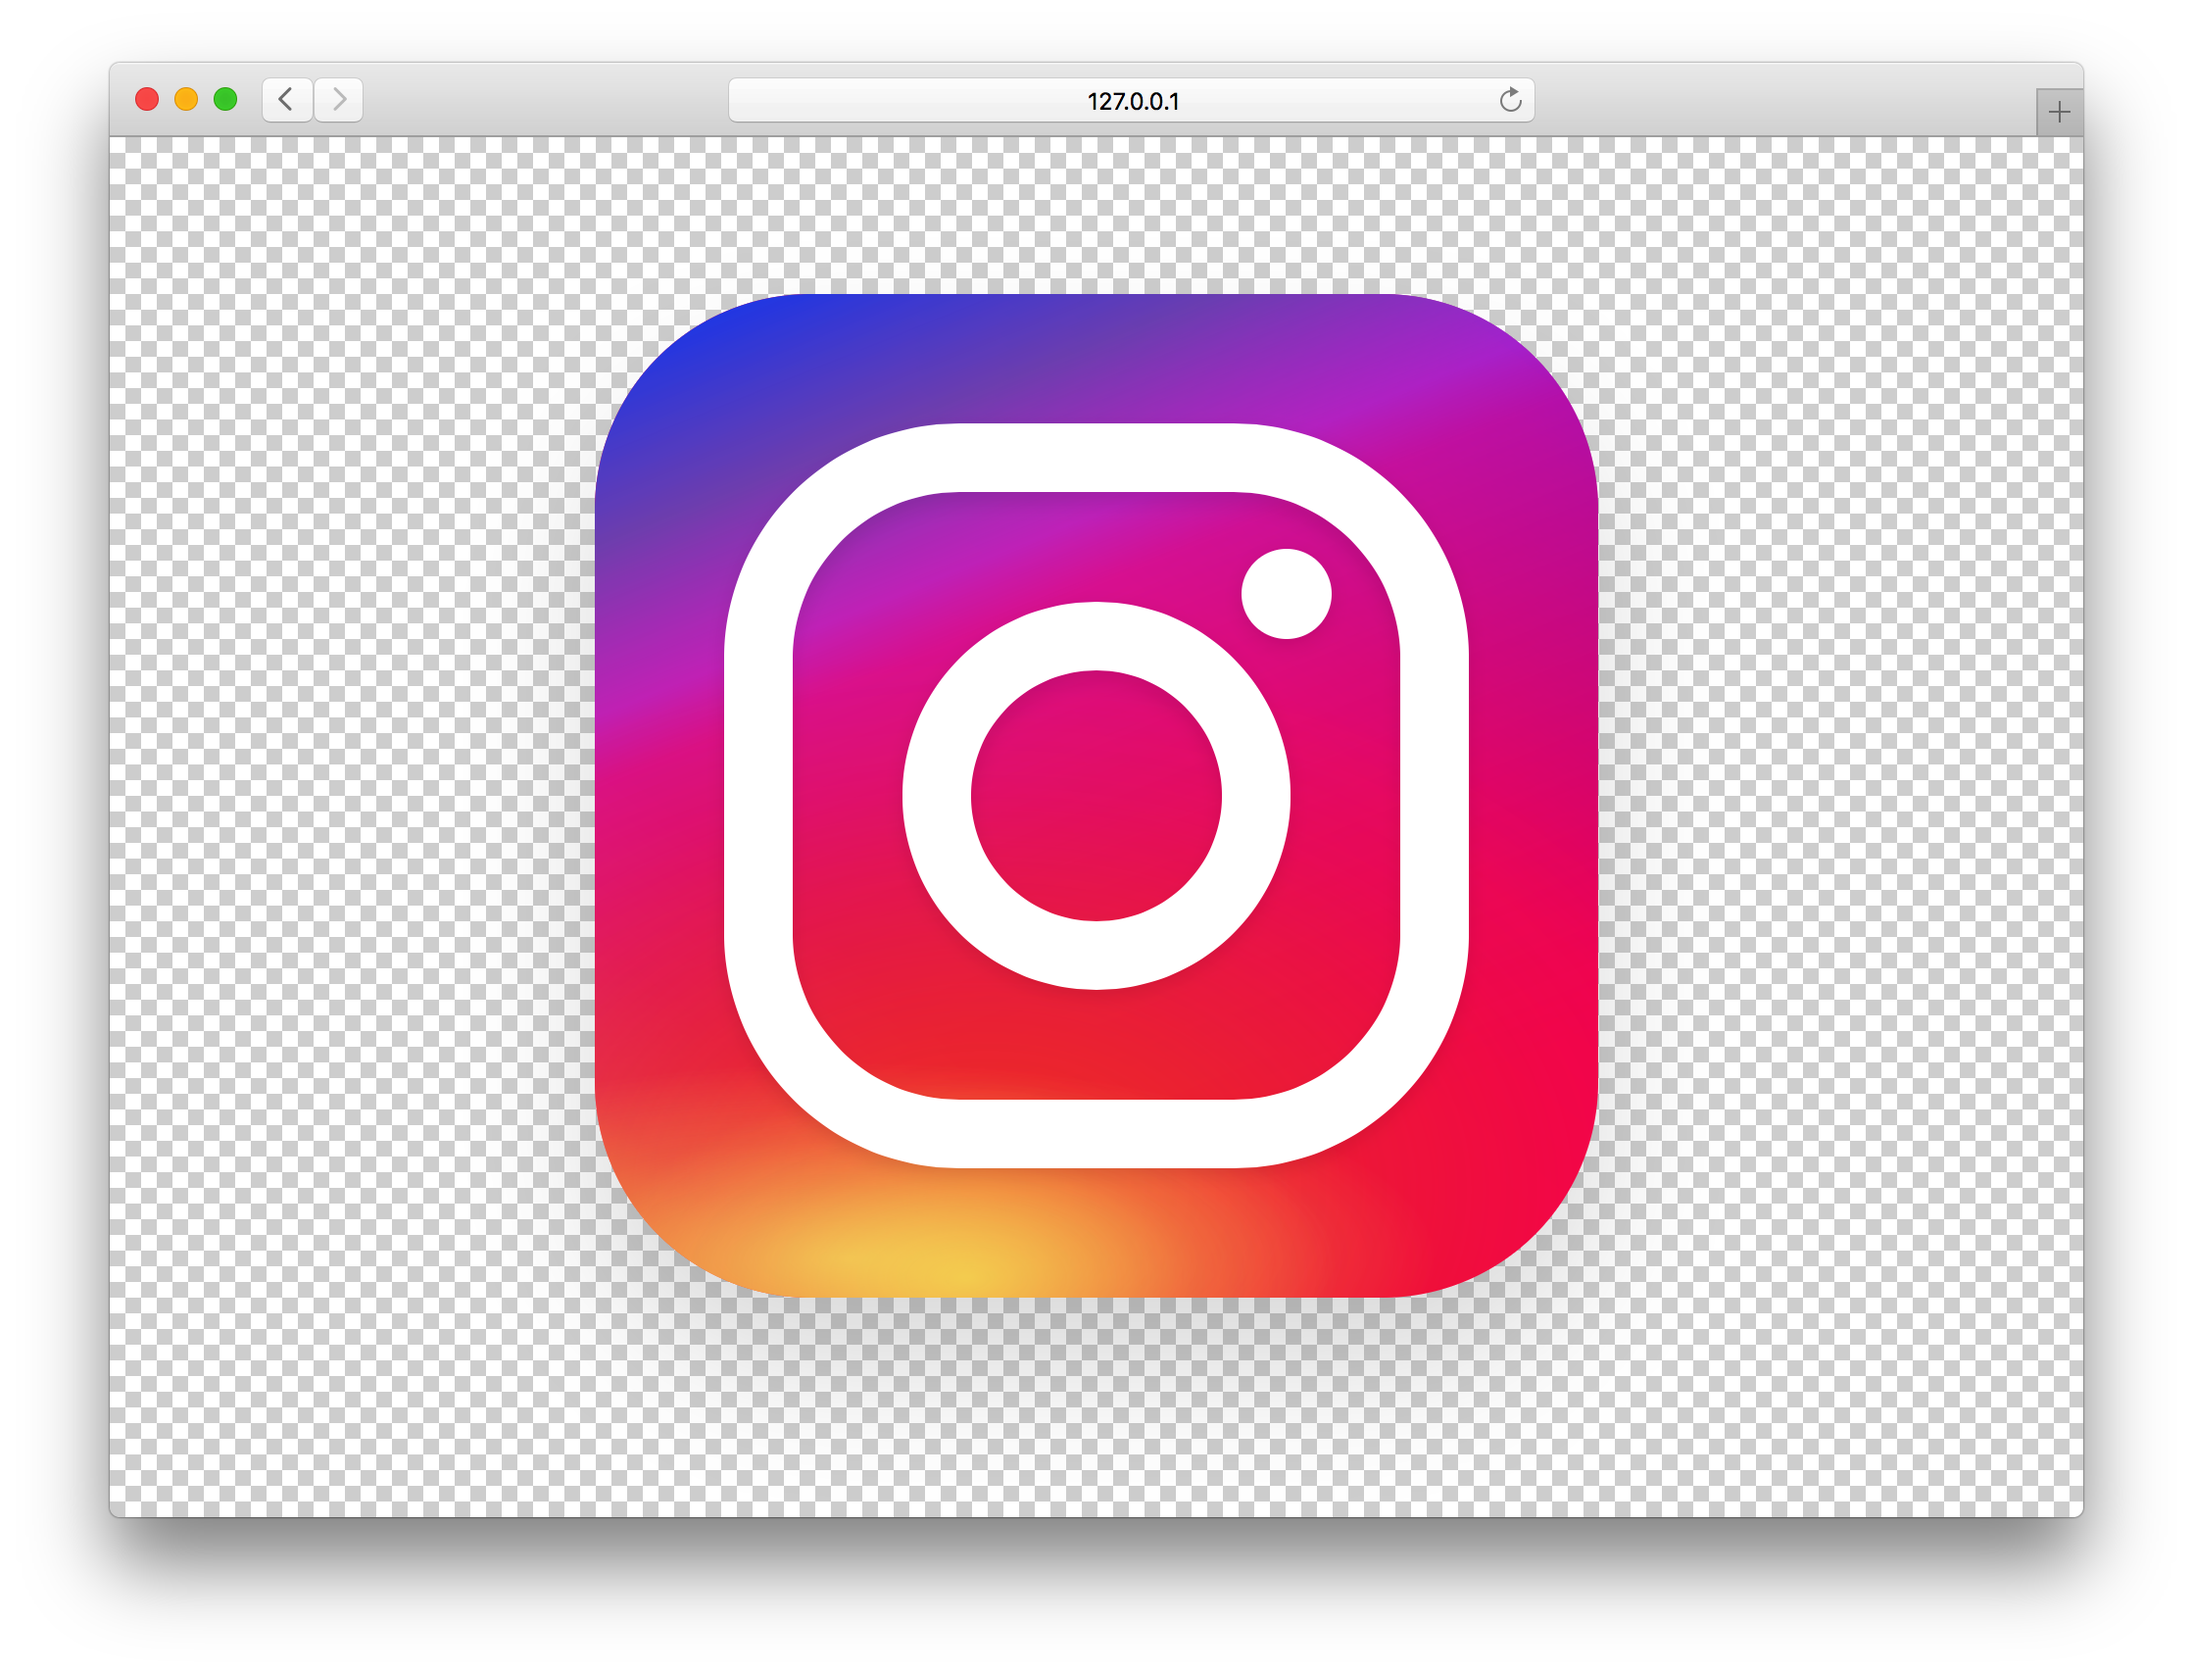
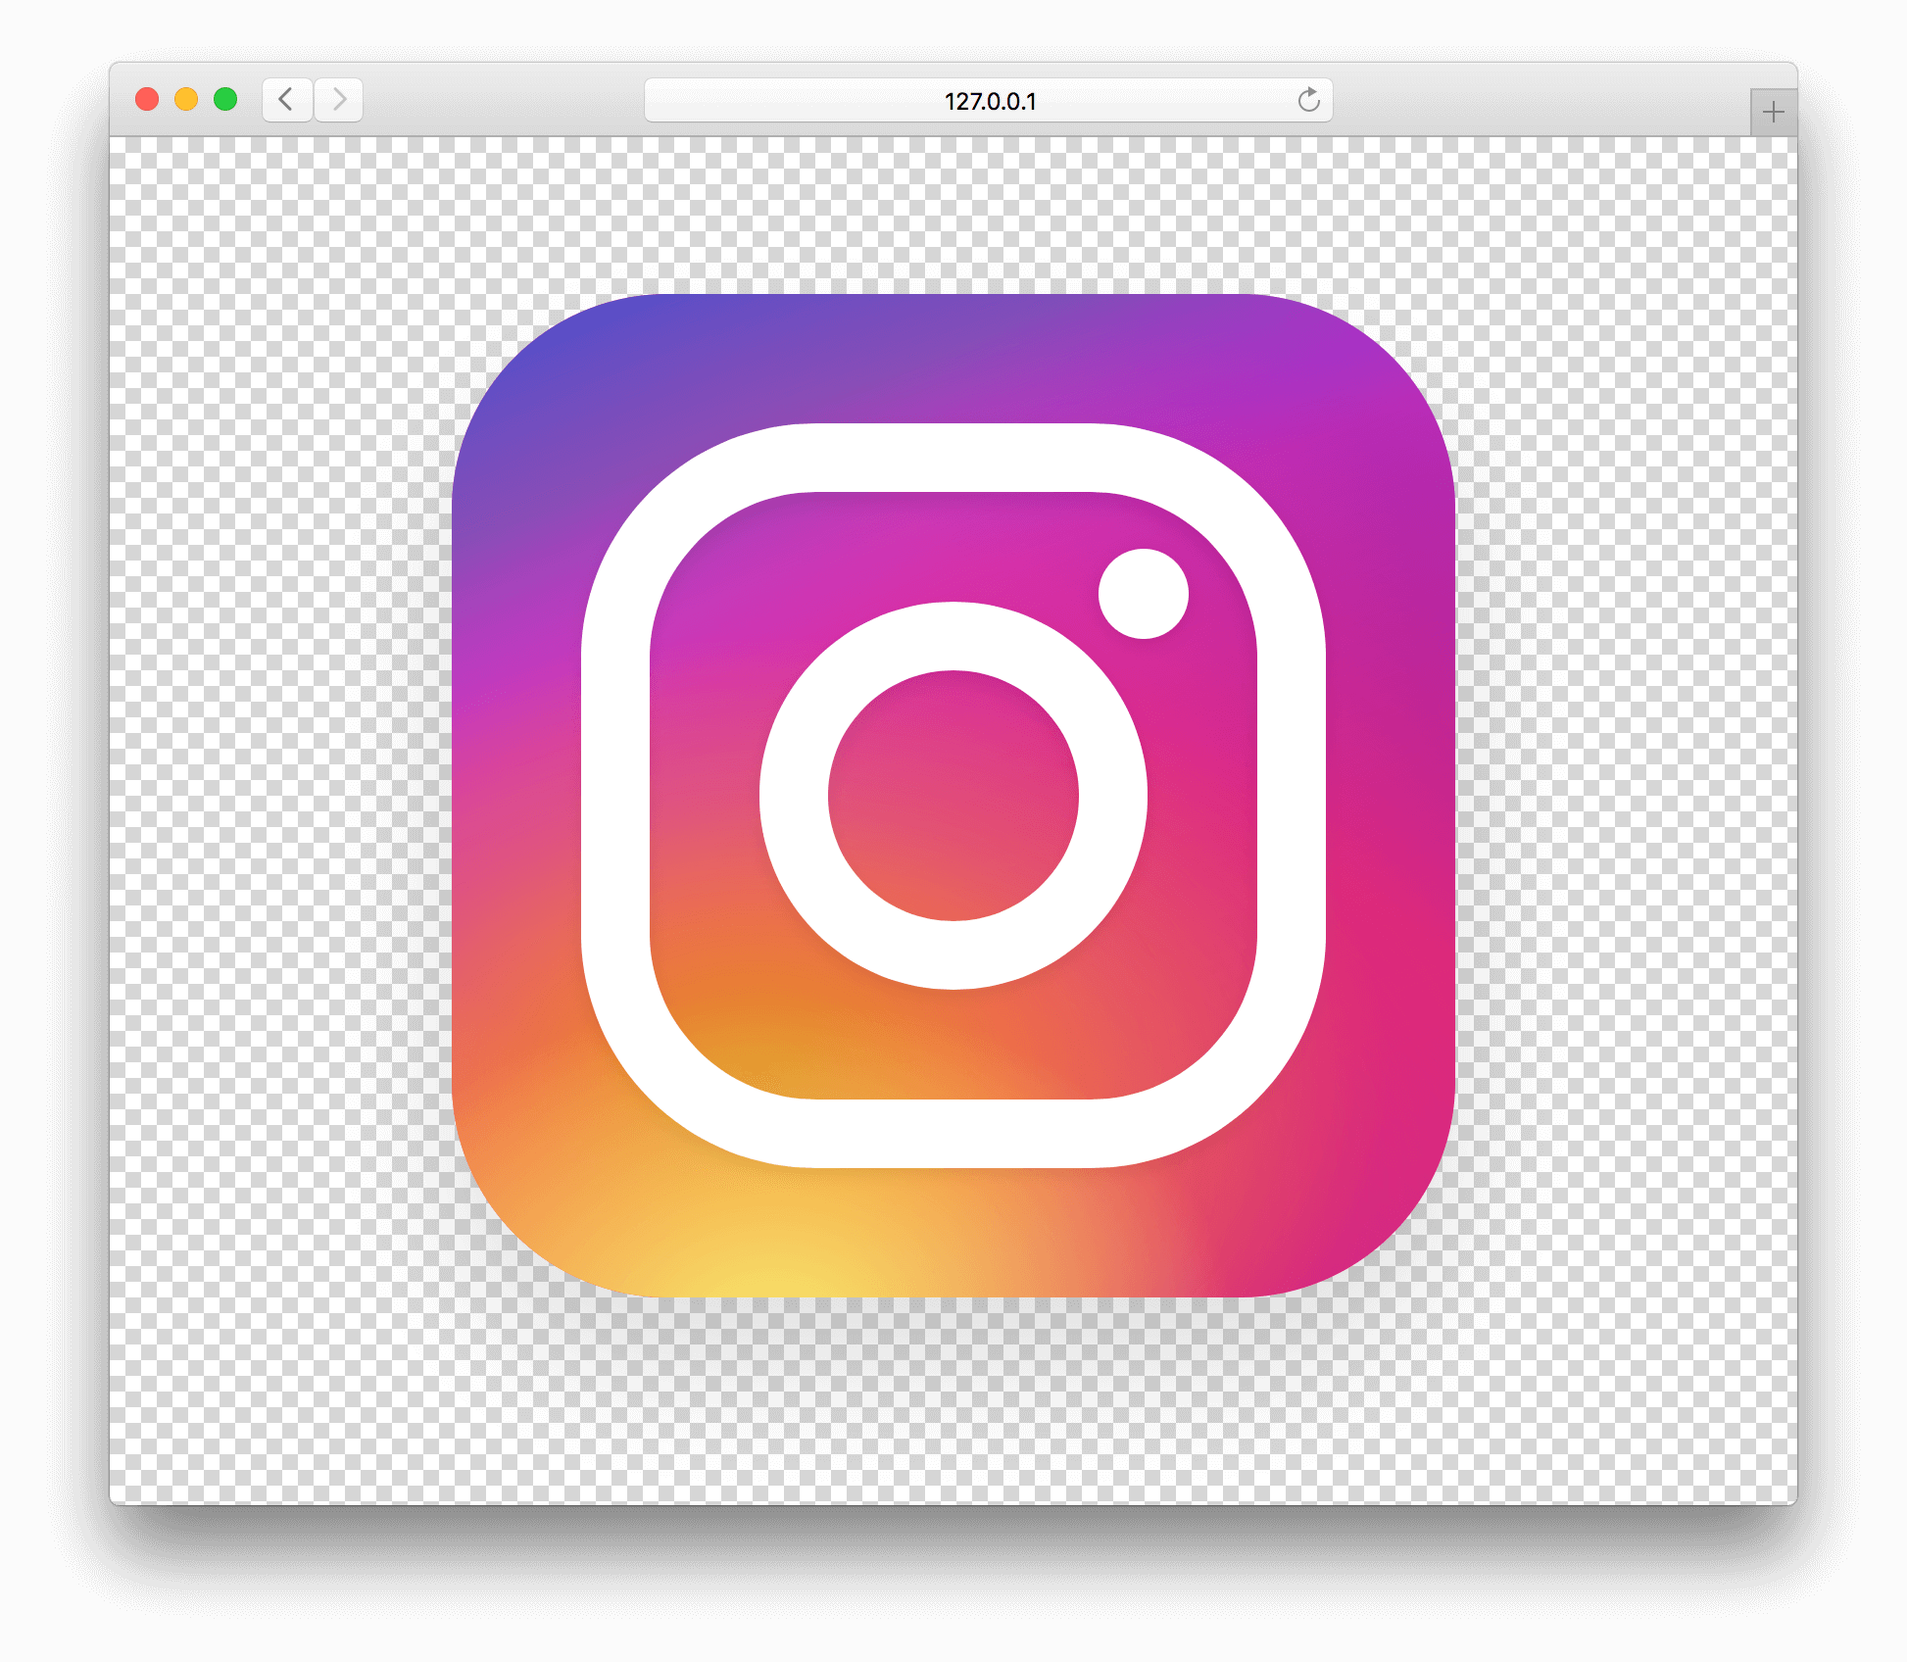
Update gradient

diff --git a/style.css b/style.css
@@ -17,7 +17,7 @@ div {
   box-sizing: border-box;
 }
 
-.logo {
+.instagram {
   position: relative;
   width: 512px;
   height: 512px;
@@ -25,44 +25,20 @@ div {
   margin-left: auto;
   margin-right: auto;
   margin-top: 5rem;
-
-  /*border-radius: 90px;*/
   border-radius: 110px;
   box-shadow: 0 38px 70px rgba(0,0,0,.15);
+
   background: linear-gradient(
     39deg,
     rgba(255,188,65,1) 0%,
-    rgba(255,174,68,1) 2%,
-    rgba(255,146,73,1) 6%,
-    rgba(255,137,74,1) 7%,
-    rgba(255,127,76,1) 8%,
-    rgba(255,98,80,1) 10%,
-    rgba(255,88,82,1) 11%,
-    rgba(255,50,82,1) 20%,
-    rgba(255,30,82,1) 30%,
-    rgba(255,21,92,1) 42%,
-    rgba(255,21,93,1) 43%,
-    rgba(255,10,93,1) 46%,
-    rgba(255,7,94,1) 47%,
-    rgba(255,7,94,1) 48%,
-    rgba(255,2,94,1) 49%,
-    rgba(255,0,94,1) 49%,
-    rgba(252,0,101,1) 63%,
-    rgba(242,0,107,1) 69%,
-    rgba(219,0,128,1) 81%,
-    rgba(200,0,143,1) 89%,
-    rgba(184,0,158,1) 93%,
-    rgba(179,9,160,1) 93%,
-    rgba(167,19,172,1) 96%,
-    rgba(167,22,173,1) 96%,
-    rgba(165,20,173,1) 97%,
-    rgba(162,24,178,1) 98%,
+    rgba(193,41,166,1) 18%,
+    rgba(221,40,125,1) 63%,
+    rgba(147,28,156,1) 89%,
     rgba(155,26,183,1) 100%
   );
-  /*background: linear-gradient(39deg, #fcc561 0%, #e77666 18%, #e02374 63%, #bd2599 89%, #9838bd 100%);*/
 }
 
-.g1 {
+.purple {
   position: absolute;
   left: 0;
   top: 0;
@@ -72,17 +48,17 @@ div {
 
   background: linear-gradient(
     158deg,
-    rgba(14, 75, 247,1) 0%,
-    rgba(118,91,195,.9) 18%,
-    rgba(190, 76, 230,.7) 30%,
+    rgba(61, 79, 208,1) 0%,
+    rgba(118,91,195,.8) 18%,
+    rgba(190, 76, 230,.5) 30%,
     rgba(212, 59, 202,.56) 35%,
     rgba(218,45,125,0) 82%
   );
 }
 
-.g2 {
+.red {
   position: absolute;
-  left: -200px;
+  left: -230px;
   bottom: -220px;
   width: 800px;
   height: 550px;
@@ -97,38 +73,38 @@ div {
   );
 }
 
-.g3 {
+.orange {
   position: absolute;
   left: -170px;
-  bottom: -80px;
-  width: 600px;
-  height: 200px;
+  bottom: -110px;
+  width: 650px;
+  height: 450px;
 
   background: radial-gradient(
     ellipse closest-side,
-    rgba(247,185,108,1) 0%,
-    rgba(247,185,108,.5) 40%,
-    rgba(247,185,108,.3) 60%,
-    rgba(254,209,115,0) 100%
+    rgb(220, 135, 30) 0%,
+    rgba(247, 159, 51, 0.5) 40%,
+    rgba(247, 170, 76, 0.3) 60%,
+    rgba(255, 191, 57, 0) 100%
   );
 }
 
-.g4 {
+.yellow {
   position: absolute;
-  left: 0;
-  bottom: -90px;
-  width: 380px;
-  height: 200px;
+  left: -70px;
+  bottom: -195px;
+  width: 470px;
+  height: 350px;
 
   background: radial-gradient(
     ellipse closest-side,
-    rgba(247,236,108,.7) 0%,
-    rgba(247,236,108,.2) 60%,
+    rgba(247,236,108,1) 0%,
+    rgba(247,236,108,.4) 60%,
     rgba(254,236,115,0) 100%
   );
 }
 
-.c1 {
+.border {
   position: absolute;
   left: 50%;
   top: 50%;
@@ -139,10 +115,9 @@ div {
   border: 35px solid #fff;
   border-radius: 120px;
   box-shadow: 0 3px 10px rgba(0,0,0,.1), inset 0 6px 10px rgba(0,0,0,.1);
-
 }
 
-.c2 {
+.cirlce {
   position: absolute;
   left: 50%;
   top: 50%;
@@ -155,7 +130,7 @@ div {
   box-shadow: 0 3px 10px rgba(0,0,0,.1), inset 0 6px 10px rgba(0,0,0,.1);
 }
 
-.c3 {
+.dot {
   position: absolute;
   left: 330px;
   top: 130px;

diff --git a/index.html b/index.html
@@ -6,16 +6,15 @@
   <link rel="stylesheet" href="style.css">
 </head>
 <body>
-  <div class="logo">
-    <div class="g1"></div>
-    <div class="g2"></div>
-    <div class="g3"></div>
-    <div class="g4"></div>
-    <div class="g5"></div>
+  <div class="instagram">
+    <div class="purple"></div>
+    <div class="red"></div>
+    <div class="orange"></div>
+    <div class="yellow"></div>
 
-    <div class="c1"></div>
-    <div class="c2"></div>
-    <div class="c3"></div>
+    <div class="border"></div>
+    <div class="cirlce"></div>
+    <div class="dot"></div>
   </div>
 </body>
 </html>
